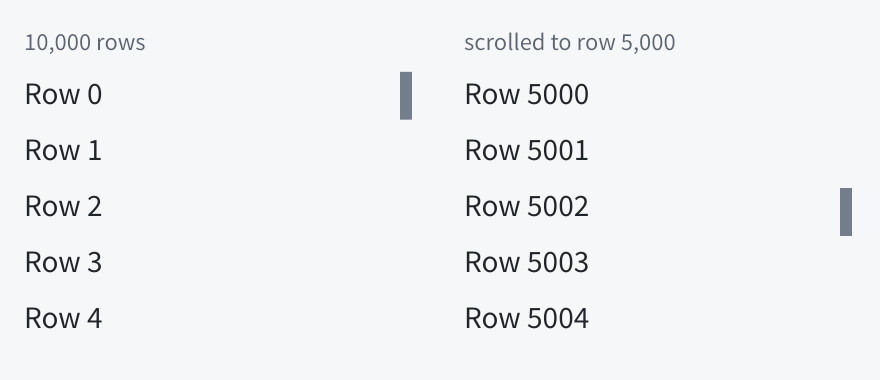
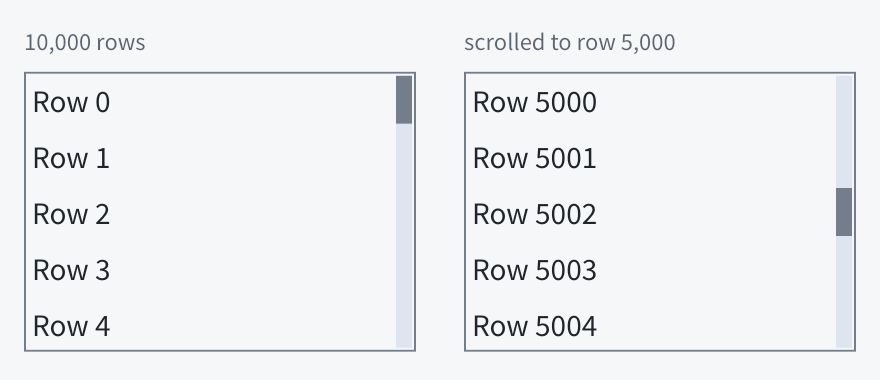
feat: bordered scroll views with a full scrollbar track
Scroll views and lists now have a default 1 dp theme border and half-theme
padding, like other framed controls; tables keep their single border.
Overlay scrollbars draw an 8 dp track in the theme pressed color inside that
border, with the border/muted thumb moving within it.

diff --git a/crates/aegle-app/src/scrollbar.rs b/crates/aegle-app/src/scrollbar.rs
@@ -1,7 +1,7 @@
 //! Overlay scrollbars shared by scroll views and multiline editors.
 //!
-//! Bars take no layout space: a thin square thumb is drawn over the viewport's
-//! trailing edge only while that axis overflows. Pressing the thumb drags it;
+//! Bars take no layout space: while an axis overflows, a light track spans the
+//! viewport's trailing edge and a darker square thumb moves along it. Pressing the thumb drags it;
 //! pressing elsewhere on the strip centers the thumb there and keeps dragging.
 //! No timer, fade or hover animation is involved.
 
@@ -17,8 +17,8 @@ use crate::{
 
 /// Pointer strip width along a scrollable edge, in logical pixels.
 const STRIP: f32 = 12.0;
-/// Visible thumb thickness at the outer edge of the strip.
-const THICKNESS: f32 = 6.0;
+/// Visible track and thumb thickness at the outer edge of the strip.
+const THICKNESS: f32 = 8.0;
 const MARGIN: f32 = 2.0;
 const MIN_THUMB: f32 = 24.0;
 
@@ -58,15 +58,24 @@ impl Bar {
     }
 
     pub fn thumb_rect(&self) -> Rect {
+        self.span(self.thumb, self.length)
+    }
+
+    /// The whole range the thumb moves along.
+    fn track_rect(&self) -> Rect {
+        self.span(0.0, self.track())
+    }
+
+    fn span(&self, offset: f32, length: f32) -> Rect {
         let s = self.strip;
         if self.vertical {
             let width = THICKNESS.min(s.size.width);
             let x = (s.origin.x + s.size.width - MARGIN - width).max(s.origin.x);
-            Rect::new(x, s.origin.y + self.thumb, width, self.length)
+            Rect::new(x, s.origin.y + offset, width, length)
         } else {
             let height = THICKNESS.min(s.size.height);
             let y = (s.origin.y + s.size.height - MARGIN - height).max(s.origin.y);
-            Rect::new(s.origin.x + self.thumb, y, self.length, height)
+            Rect::new(s.origin.x + offset, y, length, height)
         }
     }
 }
@@ -86,7 +95,8 @@ impl State {
         let vertical = limit.y > 0.0;
         let horizontal = horizontal_allowed && limit.x > 0.0;
         let bar = |vertical: bool, track: f32, cross: f32, viewport: f32, offset: f32, max: f32| {
-            let track = track.max(0.0);
+            // Both ends stay clear of the viewport's border.
+            let track = (track - 2.0 * MARGIN).max(0.0);
             let width = STRIP.min(cross.max(0.0));
             let length = (track * viewport / (viewport + max))
                 .max(MIN_THUMB)
@@ -95,9 +105,9 @@ impl State {
             Bar {
                 vertical,
                 strip: if vertical {
-                    Rect::new(start, 0.0, width, track)
+                    Rect::new(start, MARGIN, width, track)
                 } else {
-                    Rect::new(0.0, start, track, width)
+                    Rect::new(MARGIN, start, track, width)
                 },
                 thumb: (offset / max).clamp(0.0, 1.0) * (track - length),
                 length,
@@ -235,8 +245,9 @@ impl State {
         Ok(())
     }
 
-    /// Thumb color: border at rest, muted while hovered or dragged.
-    pub fn scrollbar_color(&self, id: NodeId) -> Color {
+    /// Track (theme pressed fill) and thumb colors: the thumb is border at rest,
+    /// muted while hovered or dragged.
+    pub fn scrollbar_color(&self, id: NodeId) -> [Color; 2] {
         let active = self.drag.is_some_and(|drag| drag.node == id)
             || (self.hover == Some(id)
                 && matches!(
@@ -244,20 +255,25 @@ impl State {
                     Content::Scroll(_)
                 ));
         let theme = self.theme_of(id);
-        if active { theme.muted } else { theme.border }
+        [
+            theme.pressed,
+            if active { theme.muted } else { theme.border },
+        ]
     }
 }
 
 pub(crate) fn paint(
     builder: &mut SceneBuilder,
     bars: [Option<Bar>; 2],
-    color: Color,
+    [track, thumb]: [Color; 2],
     radius: f32,
 ) -> Result {
+    let radius = radius.min(THICKNESS * 0.5);
     for bar in bars.into_iter().flatten() {
-        let rect = bar.thumb_rect();
-        if !rect.is_empty() {
-            builder.fill(RoundedRect::new(rect, radius.min(THICKNESS * 0.5))?, color)?;
+        for (rect, color) in [(bar.track_rect(), track), (bar.thumb_rect(), thumb)] {
+            if !rect.is_empty() {
+                builder.fill(RoundedRect::new(rect, radius)?, color)?;
+            }
         }
     }
     Ok(())

diff --git a/crates/aegle-theme/src/appearance.rs b/crates/aegle-theme/src/appearance.rs
@@ -7,6 +7,8 @@ use core::fmt;
 pub enum ControlKind {
     /// A layout container, transparent by default.
     Container,
+    /// A scrollable container, transparent with a theme border by default.
+    ScrollView,
     /// Noninteractive text, transparent by default.
     Label,
     /// An action button.
@@ -92,9 +94,12 @@ impl Appearance {
             ControlKind::CheckBox | ControlKind::Switch | ControlKind::RadioButton
         );
         let framed = toggle || matches!(state.kind, ControlKind::Button | ControlKind::TextField);
+        let bordered = framed || state.kind == ControlKind::ScrollView;
         let interactive = framed || state.kind == ControlKind::Slider;
         let background = match state.kind {
-            ControlKind::Container | ControlKind::Label => Color::TRANSPARENT,
+            ControlKind::Container | ControlKind::ScrollView | ControlKind::Label => {
+                Color::TRANSPARENT
+            }
             ControlKind::Button
             | ControlKind::CheckBox
             | ControlKind::Switch
@@ -124,12 +129,12 @@ impl Appearance {
             } else {
                 theme.muted
             },
-            border_color: if framed {
+            border_color: if bordered {
                 theme.border
             } else {
                 Color::TRANSPARENT
             },
-            border_width: if framed { 1.0 } else { 0.0 },
+            border_width: if bordered { 1.0 } else { 0.0 },
             radius: if matches!(state.kind, ControlKind::Container | ControlKind::Label) {
                 0.0
             } else {

diff --git a/crates/aegle-app/src/scroll_handles.rs b/crates/aegle-app/src/scroll_handles.rs
@@ -3,7 +3,11 @@ use std::ops::Deref;
 use aegle_layout::Overflow;
 use aegle_types::{Point, Rect, Size};
 
-use crate::{Container, Node, Result, UiError, state::Content, ui::container_style};
+use crate::{
+    Container, Node, Result, UiError,
+    state::Content,
+    ui::{container_style, scroll_padding},
+};
 
 /// A retained column with a clipped, independently scrollable viewport.
 /// Constrain its size or flex allocation to create overflow. It has no scrollbar
@@ -24,6 +28,7 @@ impl Container {
     pub fn scroll_view(&self) -> Result<ScrollView> {
         self.add(|_, theme| {
             let mut style = container_style(theme, false);
+            style.padding = scroll_padding(theme);
             style.overflow.x = Overflow::Scroll;
             style.overflow.y = Overflow::Scroll;
             style.flex_shrink = 0.0;

diff --git a/crates/aegle-app/src/style.rs b/crates/aegle-app/src/style.rs
@@ -15,9 +15,10 @@ impl State {
     pub fn visual_state(&self, id: NodeId) -> VisualState {
         let content = &self.tree.get(id).unwrap().context.content;
         let (kind, pressed, read_only) = match content {
-            Content::Container | Content::Scroll(_) | Content::Image(_) | Content::Canvas(_) => {
+            Content::Container | Content::Image(_) | Content::Canvas(_) => {
                 (ControlKind::Container, false, false)
             }
+            Content::Scroll(_) => (ControlKind::ScrollView, false, false),
             Content::Label(_) => (ControlKind::Label, false, false),
             Content::Button(button, _) => (ControlKind::Button, button.is_pressed(), false),
             Content::Field(field) => (ControlKind::TextField, false, field.editor().is_read_only()),

diff --git a/crates/aegle-app/src/ui.rs b/crates/aegle-app/src/ui.rs
@@ -360,6 +360,17 @@ impl Ui {
     }
 }
 
+/// Scroll views keep content clear of their default border.
+pub(crate) fn scroll_padding(theme: &Theme) -> Edges<LengthPercentage> {
+    let p = LengthPercentage::length(theme.padding / 2.0);
+    Edges {
+        left: p,
+        right: p,
+        top: p,
+        bottom: p,
+    }
+}
+
 pub(crate) fn container_style(theme: &Theme, root: bool) -> Style {
     let gap = LengthPercentage::length(theme.gap);
     let padding = LengthPercentage::length(if root { theme.padding } else { 0.0 });

diff --git a/crates/aegle-app/src/theme.rs b/crates/aegle-app/src/theme.rs
@@ -125,6 +125,11 @@ impl State {
                         bottom: p,
                     };
                 }
+                if matches!(node.context.content, Content::Scroll(_))
+                    && node.context.local_layout & 2 == 0
+                {
+                    style.padding = crate::ui::scroll_padding(theme);
+                }
             }
             Content::Button(..) | Content::Toggle(_) | Content::Slider(_)
                 if node.context.local_layout & 1 == 0 =>

diff --git a/crates/aegle-app/tests/visual.rs b/crates/aegle-app/tests/visual.rs
@@ -38,6 +38,7 @@ fn virtual_rows_follow_the_viewport_in_order() -> Result {
     assert!(ui.root().list_view(0.0, 1, |_, _| Ok(())).is_err());
     assert!(ui.root().list_view(1.0, 20_000_000, |_, _| Ok(())).is_err());
     list.set_height(Some(100.0))?;
+    list.set_padding(0.0)?;
     ui.resize(Size::new(200.0, 300.0))?;
     assert!(ui.refresh()?);
     assert_eq!(*built.borrow(), [0, 1, 2, 3, 4]);

diff --git a/crates/aegle-app/tests/scrolling.rs b/crates/aegle-app/tests/scrolling.rs
@@ -197,7 +197,7 @@ fn overlay_scrollbar_drags_above_children_without_activating_them() -> Result {
         last = scene.commands().len();
         Ok(())
     })?;
-    assert_eq!(last, 1, "thumb is not the topmost record");
+    assert_eq!(last, 2, "track and thumb are not the topmost record");
     let pointer = |kind, y| {
         ui.pointer(
             PointerId(1),

diff --git a/crates/aegle-app/src/table.rs b/crates/aegle-app/src/table.rs
@@ -109,6 +109,9 @@ impl Container {
             Ok(())
         })?;
         rows.set_grow(1.0)?;
+        // The table draws the border; its rows sit flush inside it.
+        rows.set_border_width(0.0)?;
+        rows.set_padding(0.0)?;
         Ok(Table { table, rows })
     }
 }

diff --git a/docs/rust-api.md b/docs/rust-api.md
@@ -70,11 +70,11 @@ button.on_click(move |_| {
 
 ## 当前滚动契约
 
-`ScrollView` 是保留状态的列容器；限制尺寸或 flex 分配后，两轴溢出均可滚动。`scroll_to(Point)` 和 `scroll_by(Point)` 接受有限逻辑坐标，先刷新布局再分别限制到各轴范围；负偏移归零。`offset` 是当前状态，`max_offset` 与 `content_size` 来自最近刷新布局，范围包含末尾 padding。隐藏保留偏移，但隐藏布局的范围需重新显示并刷新后才恢复。
+`ScrollView` 是保留状态的列容器，默认透明并带 1dp 主题边框和半个主题 padding 的内边距；限制尺寸或 flex 分配后，两轴溢出均可滚动。`scroll_to(Point)` 和 `scroll_by(Point)` 接受有限逻辑坐标，先刷新布局再分别限制到各轴范围；负偏移归零。`offset` 是当前状态，`max_offset` 与 `content_size` 来自最近刷新布局，范围包含末尾 padding。隐藏保留偏移，但隐藏布局的范围需重新显示并刷新后才恢复。
 
 `ensure_visible` 先刷新布局，再逐层滚动祖先，使控件或编辑器 caret 可见，不改变焦点；隐藏节点无操作。Tab 焦点和 caret 更新也使用这条显露路径。`visible_bounds` 返回最近刷新几何与祖先滚动视口的交集；隐藏或完全裁剪时为 None，不额外裁剪到窗口边缘。移出视口不销毁控件。嵌套视口和编辑器通过 `Ui::scroll_by(position, delta)` 将未消费的双轴滚轮位移向外传递。
 
-滚动裁剪为直角矩形，不随外观圆角改变。自有宿主的 `Ui::visit_scenes` 回调接收 `(&Scene, Affine, Option<Rect>)`：分别为保留绘制记录、平移和窗口逻辑坐标裁剪；宿主必须应用裁剪。某轴溢出时 ScrollView 在该轴末端绘制覆盖式滚动条：不占布局空间，12dp 指针带内贴边 6dp 直角滑块（最短 24dp），两轴同时出现时纵轴让出角落；多行编辑器只绘制纵向滑块。滑块在子树之后绘制，外层视口优先命中。按下滑块拖动，按下滑块外的指针带先把滑块中心移到该处再拖动；拖动期间其他控件不接收该指针事件，取消、隐藏或删除结束拖动且保留最后偏移。滑块静止用 theme `border`，悬停或拖动用 `muted`，没有淡出计时器或动画。当前没有 ScrollView 独立键盘焦点或滚动动画。可执行嵌套表单示例：`cargo run -p aegle --example scrolling`。
+滚动裁剪为直角矩形，不随外观圆角改变。自有宿主的 `Ui::visit_scenes` 回调接收 `(&Scene, Affine, Option<Rect>)`：分别为保留绘制记录、平移和窗口逻辑坐标裁剪；宿主必须应用裁剪。某轴溢出时 ScrollView 在该轴末端绘制覆盖式滚动条：不占布局空间，12dp 指针带内贴边绘制 8dp 宽的完整轨道（主题 `pressed` 色），直角滑块在轨道中移动（最短 24dp），两轴同时出现时纵轴让出角落；多行编辑器只绘制纵向滑块。滑块在子树之后绘制，外层视口优先命中。按下滑块拖动，按下滑块外的指针带先把滑块中心移到该处再拖动；拖动期间其他控件不接收该指针事件，取消、隐藏或删除结束拖动且保留最后偏移。滑块静止用 theme `border`，悬停或拖动用 `muted`，均深于轨道，没有淡出计时器或动画。当前没有 ScrollView 独立键盘焦点或滚动动画。可执行嵌套表单示例：`cargo run -p aegle --example scrolling`。
 
 ## 当前图像、画布与虚拟列表
 

diff --git a/docs/developer/controls.md b/docs/developer/controls.md
@@ -237,10 +237,11 @@ ScrollView { height: 200dp
 }
 ```
 
+- 默认透明背景、1 dp 主题边框（圆角随主题 radius），内边距为主题 padding 的一半；可用 `set_border_width(0.0)`、`set_padding` 覆盖。ListView 继承同样外观，Table 内的行列表不另加边框。
 - 内部按列排列；限制高度/宽度或 flex 分配后，超出部分可滚动，两轴均支持。
 - 方法：`offset`、`max_offset`、`content_size`、`scroll_to`、`scroll_by`；子控件用 `ensure_visible` 滚动到可见，`visible_bounds` 读取可见区域。
 - 滚轮、Tab 焦点和 caret 移动都会滚动；嵌套视口会把未消费的滚动传给外层。
-- 溢出时在边缘绘制覆盖式滚动条：不占布局，12 dp 指针带内 6 dp 直角滑块，可拖动或点击定位。
+- 溢出时在边缘绘制覆盖式滚动条：不占布局，12 dp 指针带内是 8 dp 宽的完整浅色轨道，较深的直角滑块在轨道中移动，长度表示可见比例；可拖动滑块或点击轨道定位。
 - 无障碍角色 ScrollView，带滚动偏移与范围。
 
 ## ListView
